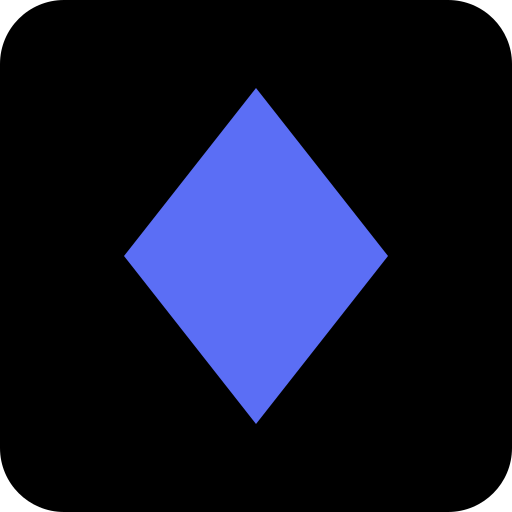
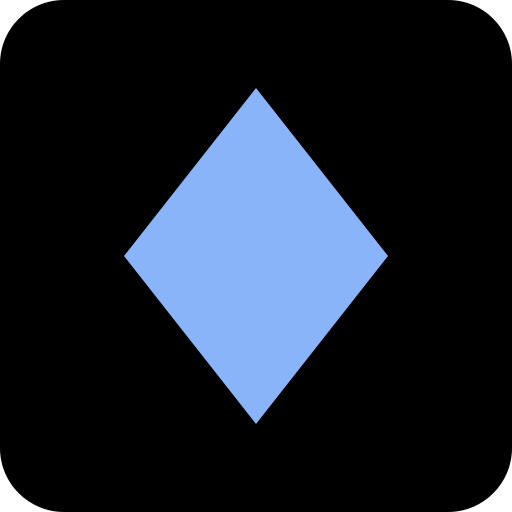
fix(web): use Catppuccin Blue (#89B4FA) for brand mark, not #5B6EF5
The TUI uses Catppuccin Mocha's Blue (palette.Blue().Hex == #89B4FA,
see internal/tui/theme.go) as its primary accent. The brand should
match what we already ship.

Reverts the previous #5B6EF5 swap on landing page + icon.svg, and
regenerates favicons / apple-touch-icon / icon-192/512 / og-image
in the correct color.

Changed region(s): [[0.25, 0.1562, 0.75, 0.8438]]

diff --git a/web/index.html b/web/index.html
@@ -684,7 +684,7 @@ const TWEAKS = /*EDITMODE-BEGIN*/{
   }
   .nexus-logo {
     display: flex; align-items: center; gap: 8px;
-    color: #89b4fa;
+    color: #89B4FA;
     font-weight: 600;
     margin-bottom: 4px;
   }
@@ -1618,7 +1618,7 @@ SENTRY_AUTH_TOKEN=<span class="s">sntrys_xyz789...</span>
       <div class="nexus-body">
         <aside class="nexus-side">
           <div class="nexus-logo">
-            <span style="font-family:sans-serif;font-size:15px;line-height:1;color:#89b4fa;">⬧</span>
+            <span style="font-family:sans-serif;font-size:15px;line-height:1;color:#89B4FA;">⬧</span>
             PYLON
           </div>
           <div class="nexus-ver">v0.3.2</div>
@@ -2061,7 +2061,7 @@ SENTRY_AUTH_TOKEN=<span class="s">sntrys_xyz789...</span>
       <rect x="18" y="2" width="3" height="18" opacity="0.6"/>
     </svg>`,
     asterism: `<span style="font-family:'JetBrains Mono',monospace;font-size:20px;line-height:1;color:var(--accent);">⁂</span>`,
-    rhombus: `<span style="font-family:sans-serif;font-size:22px;line-height:1;color:#89b4fa;">⬧</span>`,
+    rhombus: `<span style="font-family:sans-serif;font-size:22px;line-height:1;color:#89B4FA;">⬧</span>`,
   };
   const ICON_PREVIEW = {
     pennant: `<svg width="14" height="14" viewBox="0 0 22 22"><path d="M11 2 L18 20 L11 16 L4 20 Z" fill="currentColor"/></svg>`,
